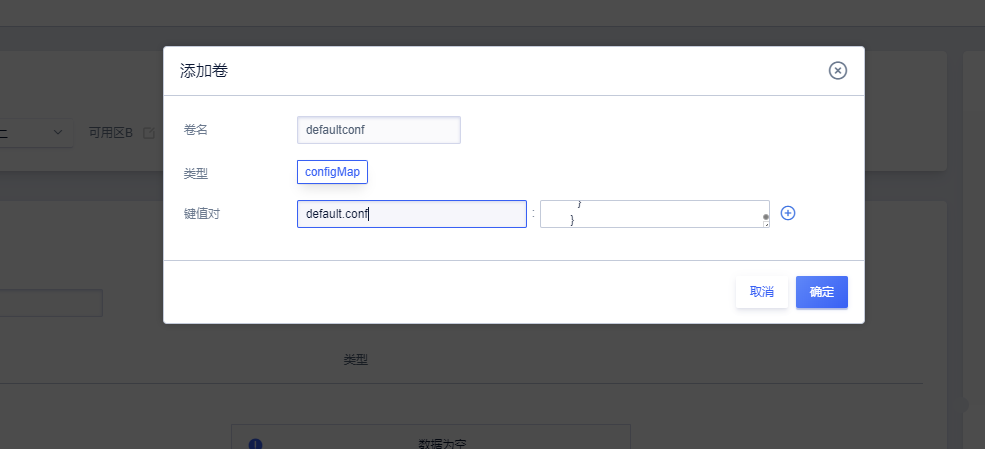
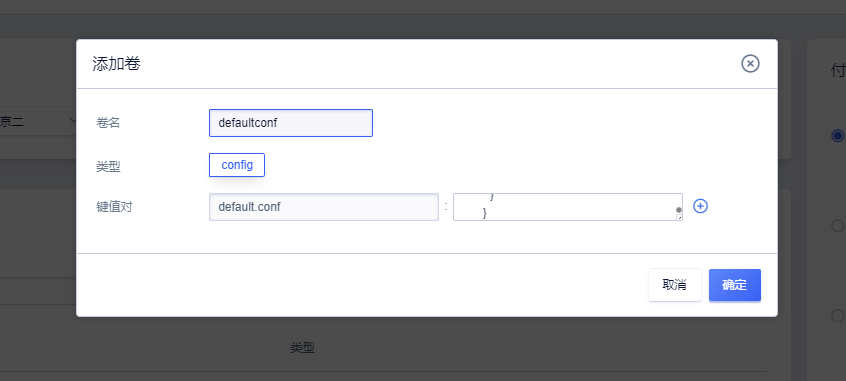
edit config

diff --git a/userguide/describe_create.md b/userguide/describe_create.md
@@ -6,7 +6,7 @@
 
 #### 非必填项
 
-卷设置提供了configMap类型，与Kubernetes中的configMap资源对象一致。configMap提供的是明文的键值对挂载。
+卷设置提供了config类型，与Kubernetes中的configMap资源对象一致。config提供的是键值对配置文件挂载。
 
 ![](../images/volume1.png)
 
@@ -87,7 +87,7 @@ daemon off;
 
 #### 非必填项
 
-这里可以将我们创建的卷设置进行挂载，我们上面创建了一个nginx的配置文件configMap，这里我们将它挂进我们的容器中。
+这里可以将我们创建的卷设置进行挂载，我们上面创建了一个nginx的配置文件config，这里我们将它挂进我们的容器中。
   
 挂载路径: `/etc/nginx/conf.d/`
 
